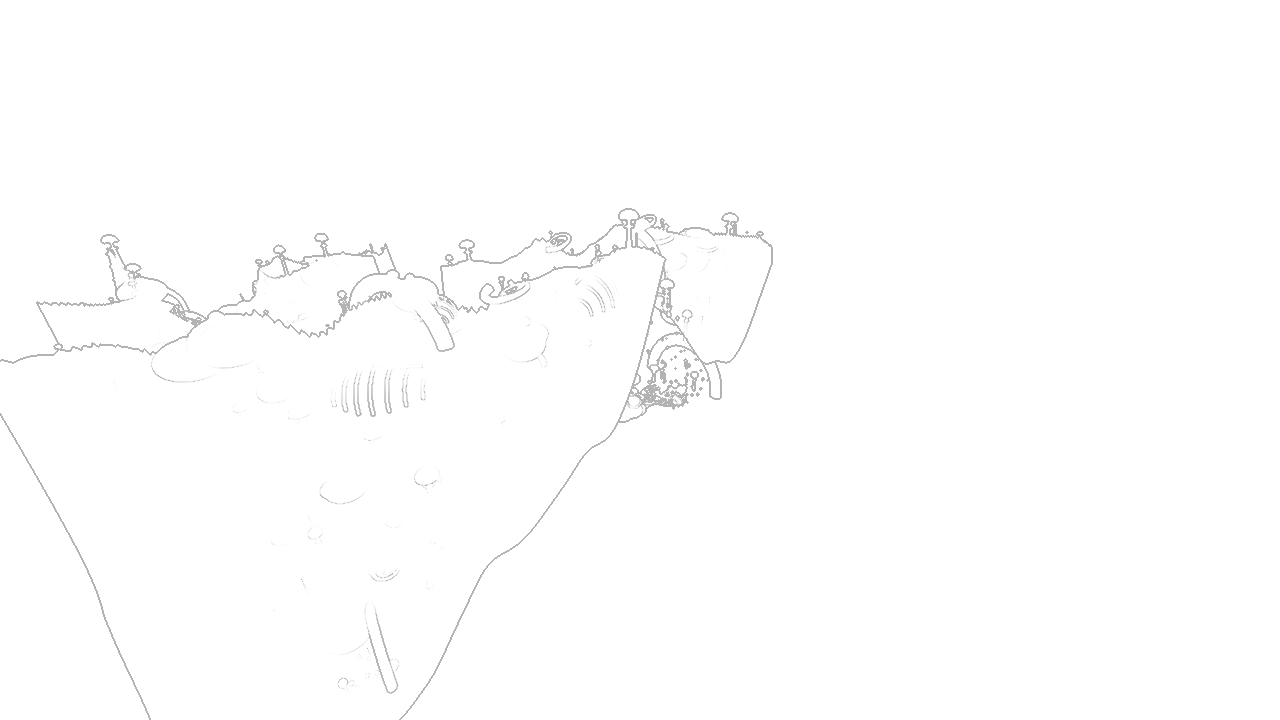
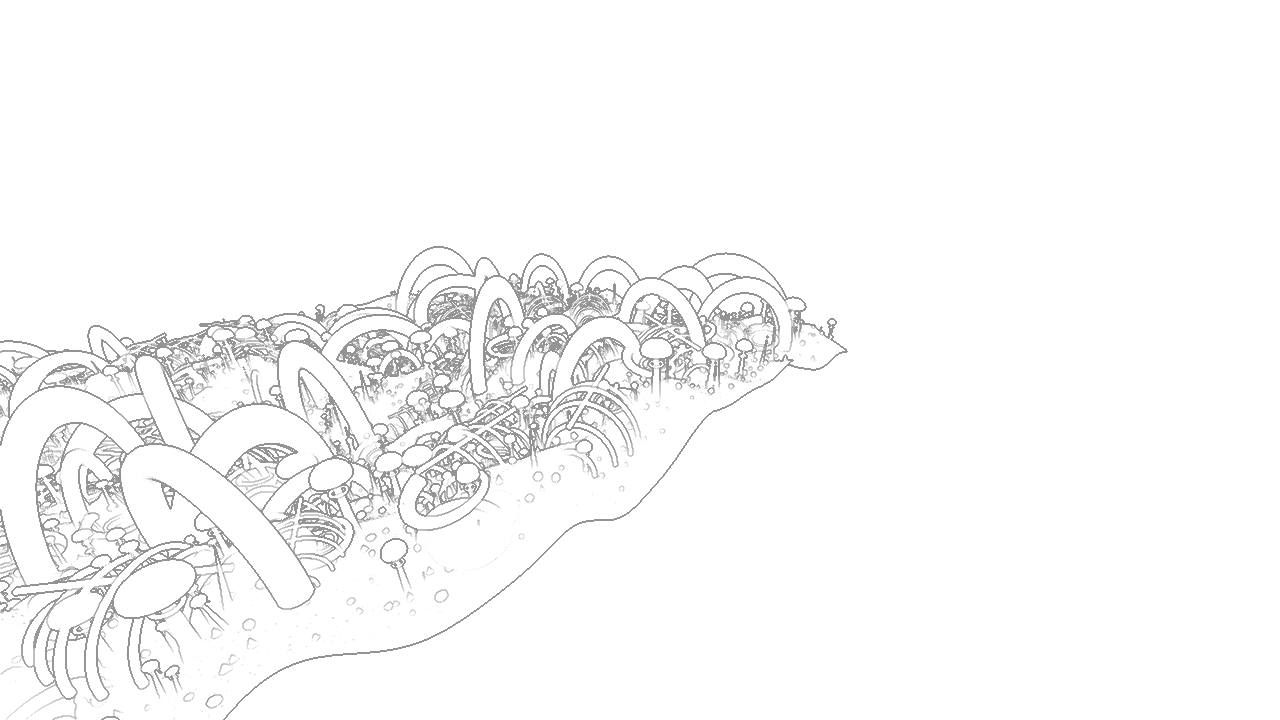
Your slider values, and hills instead of blades
From the panel: drift speed 16 -> 20.5, splat radius 18 -> 9, spatter 0.5 ->
0.52.

Mountain amplitude to a tenth, 320 -> 32, and the power from 3.2 to 2.0, since
a higher power is what narrows a crest into a blade. Peak 375 -> 91, span 446
-> 162, mean slope 66.8 -> 32.1 degrees. The rolling elevation underneath is
the basin and fbm octaves, not this, so the world still undulates.

The contours gate was measuring framing luck: it read wherever the camera
happened to point when the walk ended, which after the beauty-shot climb is the
sky. Flattening the mountains dropped the horizon out of frame and it fell from
7% to 0.26% with nothing wrong. It aims at the ground before measuring now, and
reads 20.7% twice running instead of swinging on where the moth was looking.

diff --git a/blank-planet/src/config.js b/blank-planet/src/config.js
@@ -26,16 +26,18 @@ export const terrain = {
   craterDepth: [22, 58],
   craterRim: 0.28,     // rim height as a fraction of depth
 
-  // Mountain ranges, carrying the vertical interest the floating islands used to.
-  // A ridged octave raised to a power: the power is what makes them ranges rather than
-  // more hills, because it pushes everything except the crest line back down to nothing.
+  // Ranges. A ridged octave raised to a power, so the crest line survives and the rest
+  // falls away. At a tenth of the height it first ran at, and with a lower power, which
+  // is what takes the steepness out: a higher power narrows the crest into a blade.
+  // The rolling elevation underneath comes from the basin and fbm octaves above, not
+  // from this, so flattening the ranges does not flatten the world.
   mountainFrequency: 0.0016,
-  mountainAmplitude: 320,
-  mountainSharpness: 3.2,
+  mountainAmplitude: 32,
+  mountainSharpness: 2.0,
 };
 
 export const flight = {
-  driftSpeed: 16,       // twice the ground flow the old 6 gave at 150 units
+  driftSpeed: 20.5,     // dialled in on the slider
   minSpeed: 2,
   maxSpeed: 40,         // headroom, so W still does something at the new cruise speed
   trimRate: 7,          // how fast W/S change speed
@@ -57,9 +59,8 @@ export const flight = {
 // of the capillary, advection and drying machinery exists any more.
 export const paint = {
   resolution: 2048,    // texels across the world: 0.31 world units each
-  radius: 18,          // splat radius in world units; scaling this with the altitude to 30
-                       // filled the frame with one click, so it stays small on purpose
-  satellites: 0.5,     // spatter droplets thrown clear of the splat, biased downrange
+  radius: 9,           // dialled in on the slider; small on purpose
+  satellites: 0.52,    // spatter droplets thrown clear of the splat, biased downrange
   spikes: 0.0,         // radial fingers, off for the same reason
   wobble: 0.16,        // gentle out-of-round, so a splat is organic but never jagged
   edgeSoftness: 0.035, // crisp but smooth; not feathered, not aliased

diff --git a/blank-planet/docs/results.md b/blank-planet/docs/results.md
@@ -137,11 +137,19 @@ Everything airborne is gone: floating islands, sky grazers, spore floaters. The 
 they carried is in the terrain now, as a ridged octave raised to a power, which is what
 makes it a few tall ranges rather than a world of uniform lumps.
 
-| | before | after |
-|---|---|---|
-| Highest ground | 67 units | **375 units** |
-| Flight ceiling | 420, hand-picked | **545, derived from the terrain** |
-| Draw calls | 40 | 36 |
+The ranges first ran at ten times this height and were cut back: blades at 375 units and
+a 66.8 degree mean slope, against hills now.
+
+| | before | first pass | now |
+|---|---|---|---|
+| Highest ground | 67 units | 375 units | **91 units** |
+| Height span, 256² grid | 138 | 446 | **162 units** |
+| Mean slope | — | 66.8° | **32.1°** |
+| Flight ceiling | 420, hand-picked | 545, derived | 420, derived |
+| Draw calls | 40 | 36 | 36 |
+
+The rolling elevation is not the ranges: it comes from the basin and fbm octaves, so
+flattening the mountains left the world undulating rather than flat.
 
 Two things fell out of it:
 
@@ -153,6 +161,11 @@ Two things fell out of it:
   it, because no point on a smooth flank is an edge. The contour now also takes the second
   difference of the same four depth taps, which finds the ridgelines and gullies inside
   the shape. It reuses the taps, so it costs nothing.
+- **The `contours` gate was measuring framing luck.** It read whatever the camera happened
+  to be pointing at when the walk ended, which after the beauty-shot climb is usually the
+  sky. Flattening the mountains dropped the horizon out of frame and the reading fell from
+  7% to 0.26% with nothing actually wrong. The gate now aims at the ground first and comes
+  back at 20.7% twice running.
 
 Removing every airborne thing left `hittables.js` and the per-instance ink path with
 nothing to act on, so both are gone. They are in history at `86e0a3f` if birds ever
